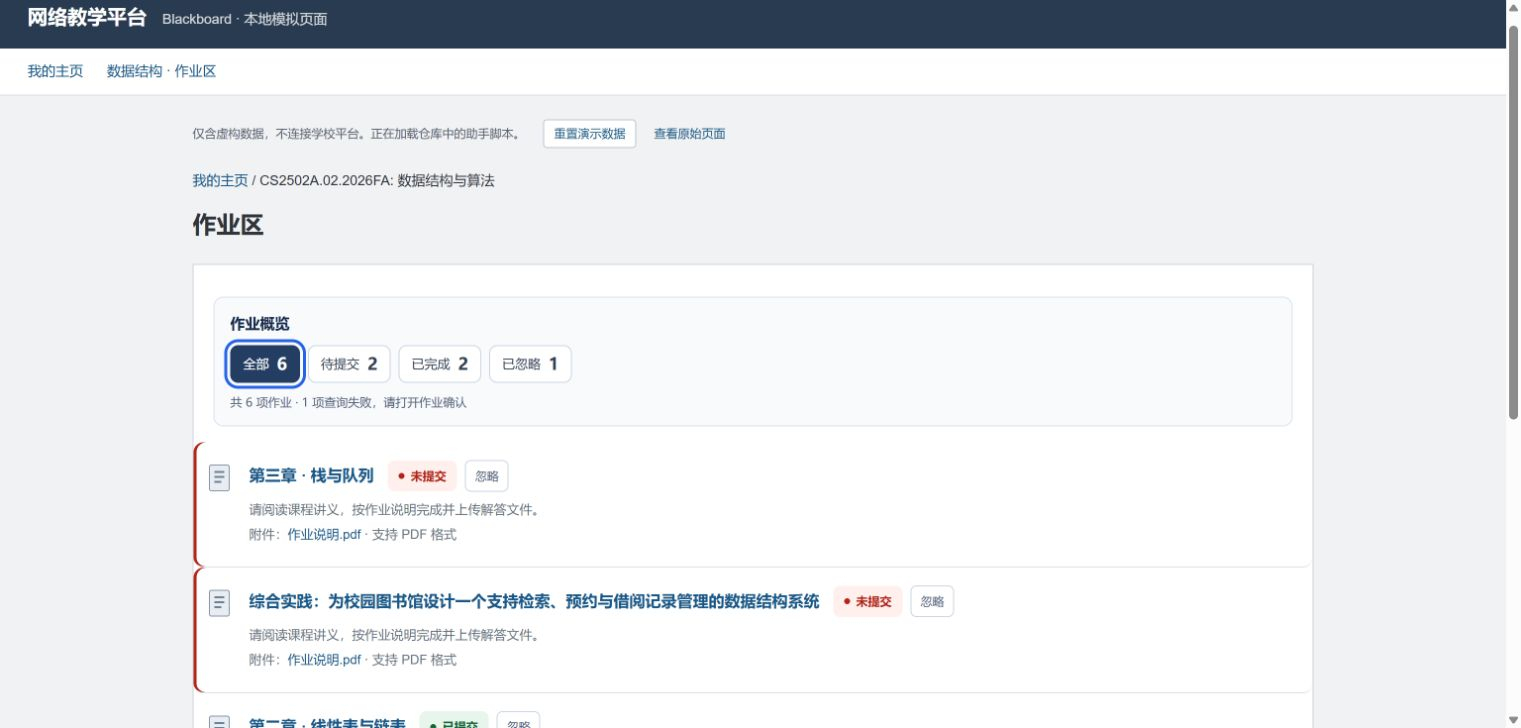
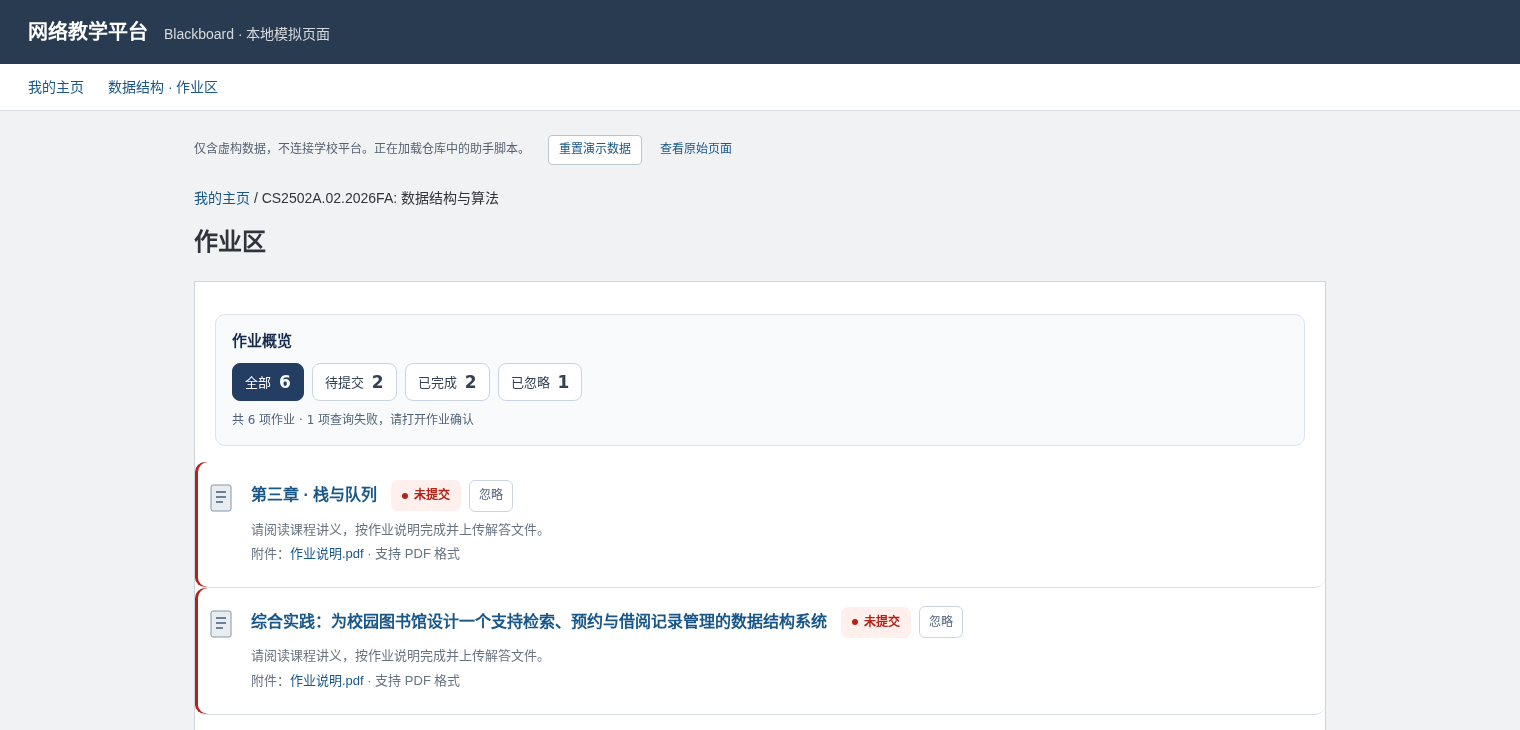
ui: shorten portal badges and polish overview details (v1.4.8)
- Portal badges show only short status; verification progress, pending
  confirmations and ignored counts move to a secondary note line
- Drop the misleading "刚核验" wording
- Pulse the dot on in-progress badges (respects prefers-reduced-motion)
- Only colour "已确认待交" red when greater than zero
- Give the portal refresh button its own class and spacing
- Update README, preview scenarios and screenshots

diff --git a/USTC-BB-Helper.user.js b/USTC-BB-Helper.user.js
@@ -3,7 +3,7 @@
 // @name:zh-CN   USTC BB 助手
 // @license      gpl-3.0
 // @namespace    ustc-bb-helper
-// @version      1.4.7
+// @version      1.4.8
 // @description  Enhancements for USTC Blackboard: course and homework overviews, filterable homework status badges with keyboard-accessible ignore controls, courses sorted by unsubmitted homework with direct links, personalized color theme on all pages, auto login and off-campus authentication. Based on PRO's USTC Helper (GPL-3.0), no external dependencies.
 // @description:zh-CN  为中科大 bb 网络教学平台增强：课程与作业概览、提交状态筛选、支持键盘操作的忽略按钮；主页按未提交作业数排序，点击课程直达作业区；主页个性化主题颜色全站生效；自动登录及校外认证。基于 PRO 的 USTC Helper (GPL-3.0) bb 模块修复而来，无任何外部依赖。
 // @match        https://www.bb.ustc.edu.cn/*
@@ -80,7 +80,7 @@
         .ustc-bb-stat { display: flex; align-items: baseline; flex-wrap: wrap; gap: 4px 8px; }
         .ustc-bb-stat dt { font-size: 12px; color: #52627a; }
         .ustc-bb-stat dd { margin: 0; color: #172b4d; font-size: 21px; font-weight: 700; line-height: 1.4; font-variant-numeric: tabular-nums; }
-        .ustc-bb-stat:first-child dd { color: #b42318; }
+        .ustc-bb-stat dd.ustc-bb-stat-alert { color: #b42318; }
         .ustc-bb-filters { display: flex; flex-wrap: wrap; gap: 8px; margin: 0; }
         .ustc-bb-filters button {
             appearance: none; display: inline-flex; align-items: center; gap: 8px;
@@ -113,21 +113,27 @@
             text-shadow: none;
         }
         .ustc-bb-hint::before { content: ""; flex: 0 0 6px; width: 6px; height: 6px; border-radius: 50%; background: currentColor; }
-        .ustc-bb-ignore {
+        /* 查询中的圆点轻微呼吸，区分「正在查」与「卡住了」；尊重系统减少动态效果设置。 */
+        @keyframes ustc-bb-pulse { 0%, 100% { opacity: 1; transform: scale(1); } 50% { opacity: .3; transform: scale(.6); } }
+        .ustc-bb-hint-busy::before { animation: ustc-bb-pulse 1.4s ease-in-out infinite; }
+        @media (prefers-reduced-motion: reduce) { .ustc-bb-hint-busy::before { animation: none; } }
+        .ustc-bb-ignore, .ustc-bb-refresh {
             appearance: none; min-height: 32px; padding: 4px 9px; margin: 0;
             border: 1px solid #cbd5e1; border-radius: 6px; background: #fff;
             color: #52627a; font-size: 12px; font-weight: 400; line-height: 1.6;
             cursor: pointer; box-shadow: none; text-shadow: none; white-space: nowrap;
         }
-        .ustc-bb-ignore:hover:not(:disabled) { color: #17365d; border-color: #7185a2; background: #eef2f7; }
+        .ustc-bb-ignore:hover:not(:disabled), .ustc-bb-refresh:hover:not(:disabled) { color: #17365d; border-color: #7185a2; background: #eef2f7; }
         .ustc-bb-ignore:disabled { cursor: wait; color: #66758a; background: #f1f4f8; }
+        .ustc-bb-refresh { margin-top: 12px; padding: 4px 12px; }
+        .ustc-bb-refresh:disabled { cursor: default; color: #8a97a8; background: #f1f4f8; }
         .ustc-bb-hw-actions { display: inline-flex; align-items: center; flex-wrap: wrap; gap: 8px; max-width: 100%; vertical-align: middle; }
         .ustc-bb-hint-0, .ustc-bb-hint-4 { color: #475569; background: #edf1f5; }
         .ustc-bb-hint-1 { color: #166534; background: #e8f5ec; }
         .ustc-bb-hint-2 { color: #b42318; background: #fff0ed; }
         .ustc-bb-hint-3 { color: #854d0e; background: #fff6d9; }
         .ustc-bb-hint-5 { color: #1d4ed8; background: #eaf1ff; }
-        .ustc-bb-ignore:focus-visible, .ustc-bb-filters button:focus-visible,
+        .ustc-bb-ignore:focus-visible, .ustc-bb-refresh:focus-visible, .ustc-bb-filters button:focus-visible,
         .ustc-bb-course a:focus-visible { outline: 3px solid #2563eb; outline-offset: 3px; }
         .ustc-bb-course-list { padding: 0 !important; list-style: none; }
         .ustc-bb-course-list > .ustc-bb-course {
@@ -143,6 +149,10 @@
         .ustc-bb-course-heading > a { display: block; color: #17365d; font-size: 14px; font-weight: 600; line-height: 1.6; }
         .ustc-bb-course-main > .ustc-bb-hint { flex: 0 0 auto; }
         .ustc-bb-course .ustc-bb-course-code { display: block; margin-top: 4px; color: #617089; font-size: 11px; font-weight: 400; line-height: 1.5; overflow-wrap: anywhere; }
+        /* 徽章只放短状态；「已忽略 N 项」「N 项待确认」等补充说明放在这一行，避免徽章在窄列里换成多行。 */
+        .ustc-bb-course .ustc-bb-course-note { display: block; margin-top: 2px; color: #617089; font-size: 11px; font-weight: 400; line-height: 1.5; overflow-wrap: anywhere; }
+        .ustc-bb-course .ustc-bb-course-note:empty { display: none; }
+        .ustc-bb-course-main > .ustc-bb-hint { white-space: nowrap; }
         .ustc-bb-assignment { border-radius: 10px; }
         .ustc-bb-assignment h3 { display: flex; align-items: center; flex-wrap: wrap; gap: 8px 14px; line-height: 1.8; overflow-wrap: anywhere; }
         .ustc-bb-assignment h3 > a { min-width: 0; }
@@ -579,7 +589,7 @@
                 if ((hidden && hw.contains(document.activeElement)) || ((status === 0 || entry.refreshing) && toggle === document.activeElement)) {
                     filterButtons[activeFilter].button.focus();
                 }
-                hint.className = `ustc-bb-hint ustc-bb-hint-${status}`;
+                hint.className = `ustc-bb-hint ustc-bb-hint-${status}${status === 0 || entry.refreshing ? ' ustc-bb-hint-busy' : ''}`;
                 hint.textContent = `${hintText[status]}${extra ? ' ' + extra : ''}${entry.refreshing && status !== 0 ? ' · 核验中' : ''}`;
                 toggle.disabled = status === 0 || entry.refreshing;
                 toggle.textContent = ignored ? '恢复' : '忽略';
@@ -688,24 +698,29 @@
             heading.className = 'ustc-bb-course-heading';
             heading.appendChild(a);
             if (code) heading.appendChild(code);
+            const note = heading.appendChild(document.createElement('span'));
+            note.className = 'ustc-bb-course-note';
             const badge = main.appendChild(document.createElement('span'));
-            badge.className = 'ustc-bb-hint ustc-bb-hint-0';
-            badge.textContent = '作业查询中…';
+            badge.className = 'ustc-bb-hint ustc-bb-hint-0 ustc-bb-hint-busy';
+            badge.textContent = '查询中';
             li.classList.add('ustc-bb-course');
-            return { li, a, courseId, badge, unsub: 0, hasHw: true, ready: false, pending: 0, failed: 0 };
+            return { li, a, courseId, badge, note, unsub: 0, hasHw: true, ready: false, pending: 0, failed: 0 };
         }).filter(Boolean);
         if (!items.length) return;
         ul.classList.add('ustc-bb-course-list');
         const overview = createOverview(ul, '课程概览', ['已确认待交', '待办课程', '当前课程']);
         const retry = overview.panel.appendChild(document.createElement('button'));
         retry.type = 'button';
-        retry.className = 'ustc-bb-ignore';
+        retry.className = 'ustc-bb-refresh';
         retry.textContent = '刷新作业状态';
 
         function updateOverview() {
             const pending = items.filter(item => !item.ready).length;
             const failed = items.filter(item => item.ready && item.failed).length;
-            overview.values[0].textContent = items.reduce((sum, item) => sum + Math.max(0, item.unsub), 0);
+            const unsubTotal = items.reduce((sum, item) => sum + Math.max(0, item.unsub), 0);
+            overview.values[0].textContent = unsubTotal;
+            // 只有确实有待交作业时才标红，0 不应该看起来像警告。
+            overview.values[0].classList.toggle('ustc-bb-stat-alert', unsubTotal > 0);
             overview.values[1].textContent = items.filter(item => item.unsub > 0).length;
             overview.values[2].textContent = items.length;
             overview.note.textContent = pending
@@ -730,28 +745,41 @@
             if (focused && document.activeElement !== focused) focused.focus({ preventScroll: true });
         }
 
+        // 徽章只给一眼可扫的短状态，补充说明（核验进度、待确认、已忽略）放到标题下的灰色小字。
         function updateBadge(item) {
+            let kind = 0, busy = false, label = '';
+            const notes = [];
             if (!item.hasHw) {
-                item.badge.className = 'ustc-bb-hint ustc-bb-hint-0';
-                item.badge.textContent = '无作业区';
+                label = '无作业区';
             } else if (item.unsub > 0) {
-                item.badge.className = 'ustc-bb-hint ustc-bb-hint-2';
-                item.badge.textContent = !item.ready || item.failed
-                    ? `至少 ${item.unsub} 项待交${!item.ready ? ' · 核验中…' : ` · ${item.failed} 项待确认`}`
-                    : `未提交 ${item.unsub}`;
+                kind = 2;
+                label = `未提交 ${item.unsub}`;
+                if (!item.ready) {
+                    busy = true;
+                    notes.push(item.pending ? `核验中，剩余 ${item.pending} 项，数量可能增加` : '核验中，数量可能增加');
+                } else if (item.failed) {
+                    notes.push(`另有 ${item.failed} 项查询失败待确认`);
+                }
             } else if (!item.ready) {
-                item.badge.className = 'ustc-bb-hint ustc-bb-hint-0';
-                item.badge.textContent = typeof item.previousCount === 'number'
-                    ? `上次待交 ${item.previousCount} · 正在重新核验`
-                    : item.pending ? `作业查询中 · 剩余 ${item.pending}` : '作业查询中…';
+                busy = true;
+                label = '查询中';
+                if (typeof item.previousCount === 'number') {
+                    notes.push(item.previousCount > 0 ? `上次待交 ${item.previousCount}，正在重新核验` : '上次已交齐，正在重新核验');
+                } else if (item.pending) {
+                    notes.push(`正在核验，剩余 ${item.pending} 项`);
+                }
             } else if (!item.failed) {
-                item.badge.className = 'ustc-bb-hint ustc-bb-hint-1';
-                item.badge.textContent = item.total === 0 ? '作业区暂无作业'
-                    : item.ignored ? `暂无待交 · 已忽略 ${item.ignored} 项` : '暂无待交 · 刚核验';
+                kind = 1;
+                label = item.total === 0 ? '暂无作业' : '已交齐';
             } else {
-                item.badge.className = 'ustc-bb-hint ustc-bb-hint-3';
-                item.badge.textContent = '查询未完成，可重试';
+                kind = 3;
+                label = '查询未完成';
+                notes.push('部分请求失败，可点击上方按钮重试');
             }
+            if (item.hasHw && item.ready && item.ignored) notes.push(`已忽略 ${item.ignored} 项`);
+            item.badge.className = `ustc-bb-hint ustc-bb-hint-${kind}${busy ? ' ustc-bb-hint-busy' : ''}`;
+            item.badge.textContent = label;
+            item.note.textContent = notes.join(' · ');
             item.li.dataset.status = item.unsub > 0 ? '2' : '0';
             updateOverview();
             sortCourses();

diff --git a/dev/README.md b/dev/README.md
@@ -19,6 +19,7 @@ node dev/preview.mjs
 - 门户包含 7 门课程。清空缓存首次打开时，首页应自动查询并逐步显示数量，无需先进入作业区。概率论有 1 项未提交，线性代数和人工智能已交齐；数据结构有 2 项已查到待提交、1 项查询失败待确认，选做作业预先忽略。学术交流无作业区，物理实验模拟入口查询错误，空作业区显示「作业已交齐」。检查已查到的待交数量、渐进排序和直达作业区链接；有失败或未确认项目时不能误显示已交齐。
 - 正常批量查询应从「我的成绩」页面获取待提交、已提交和已评分状态，只为数据结构中在成绩表缺失的错误项单独请求作业页面。线性代数第一项故意使用 `upcoming_item_row`，但带已提交活动和 `needs_grading.png`，仍须识别为已提交。
 - 5 门课程带 `CS2502A.02.2026FA:` 一类的示例编号前缀，学术交流课程不带编号，人工智能保留长标题。检查课程名为主行、编号为灰色次行，无编号课程没有空行，长标题和 260px 窄列不横向溢出；主页概览在窄列中保持紧凑。
+- 课程徽章只有短状态（未提交 N / 已交齐 / 暂无作业 / 无作业区 / 查询中 / 查询未完成），不应换行；「另有 N 项查询失败待确认」「已忽略 N 项」「上次待交 N，正在重新核验」等补充说明出现在编号下方的灰色小字，没有补充说明时该行不占高度。查询中的徽章圆点有呼吸动画，概览「已确认待交」为 0 时不标红，「刷新作业状态」按钮与说明文字之间有间距。
 - 数据结构作业区包含未提交、已提交、已评分（96 / 100）、查询错误和预先忽略的选做作业，以及较长中文标题。
 - 作业概览用一排带数字的「全部／待提交／已完成／已忽略」按钮筛选，检查数字随忽略与恢复操作同步更新，窄窗口时允许换行。
 - 预览模拟原站作业列表的负外边距（桌面顶部 -20px，窄屏 -12px）。有概览时仅上外边距归零；切换各个筛选后，概览与第一条可见内容之间应保持 16px 间距，不相互覆盖。
@@ -26,7 +27,7 @@ node dev/preview.mjs
 - 点击独立的「忽略／恢复」按钮切换忽略状态，再回主页，检查未提交数同步；刷新作业页，检查忽略状态持久化。状态标签与标题链接各自显示，点击状态文字不应切换忽略或打开作业。
 - 用 Tab、Enter 和空格操作筛选与「忽略／恢复」按钮；在窄窗口、260px 门户列和浏览器缩放后检查标题、编号、状态标签和概览是否溢出。
 - 首次打开会初始化一项忽略记录；之后保留本机演示状态。「重置演示数据」只清除此预览源的 `ustc-bb-*` 数据，恢复默认样例并清空门户缓存，不影响学校域名上的数据。
-- 重新进入门户时先展示上次统计并提示更新中，随后在后台核验当前状态；不能把当天的缓存当成永久有效。可点击「重置演示数据」重新观察首次加载过程。
+- 重新进入门户时徽章显示「查询中」，次行提示「上次待交 N，正在重新核验」或「上次已交齐，正在重新核验」，随后在后台核验当前状态；不能把当天的缓存当成永久有效。可点击「重置演示数据」重新观察首次加载过程。
 - 设置 `BB_PREVIEW_LEGACY_ZERO_CACHE=1` 并重置演示数据，会种入旧版无版本的当日错误零值：概率论缓存为已交齐，但实际有 1 项待交。新版本应忽略这份旧统计并重新查询，最终显示 1 项待交。
 - 首页查询获得的单项状态快照与作业区共享：先在首页完成概率论查询，5 分钟内进入该课作业区，检查已有状态可先展示，并明确提示后台核验中；随后通过批量接口更新，不重复打开已由批量结果确认的复查页。忽略／恢复或打开单项作业后，关联快照与计数应失效或同步更新。部分失败记录不能作为完整“已交齐”统计复用。
 

diff --git a/README.md b/README.md
@@ -7,8 +7,8 @@
 - **作业区状态标注**：在作业列表自动标注每个作业的状态徽章 —— 已提交（绿）/ 未提交（红）/ 已评分（蓝，显示分数）/ 查询错误（黄）
 - **作业概览与筛选**：一排按钮同时显示各状态数量并提供筛选，减少顶部占用；查询进度、失败提示和筛选空状态单独展示
 - **忽略与恢复**：状态徽章旁有独立的「忽略 / 恢复」按钮，忽略后浅灰显示并收起详情；支持 Tab、Enter 和空格操作，忽略记录存于 localStorage，主页未提交数目会同步更新
-- **课程概览**：以卡片展示当前课程，紧凑汇总已查到的待交作业和待办课程数量；突出课程名，将标准课程编号放在灰色次行，长标题和窄栏布局自动换行
-- **主页自动统计与排序**：首次打开门户主页就自动查询各课未提交作业数，无需先进入作业区；优先从「我的成绩」批量获取状态，只为无法确认的作业查询单项页面。红色「未提交 N」徽章随查询结果更新并降序置顶，「作业已交齐」居中
+- **课程概览**：以卡片展示当前课程，紧凑汇总已查到的待交作业和待办课程数量（待交为 0 时不标红）；突出课程名，将标准课程编号放在灰色次行，长标题和窄栏布局自动换行
+- **主页自动统计与排序**：首次打开门户主页就自动查询各课未提交作业数，无需先进入作业区；优先从「我的成绩」批量获取状态，只为无法确认的作业查询单项页面。徽章只显示短状态（红色「未提交 N」/ 绿色「已交齐」/「查询中」带呼吸圆点 / 黄色「查询未完成」），核验进度、待确认项和已忽略数量放在课程编号下的灰色小字；未提交课程降序置顶
 - **直达作业区**：主页点击课程名称直接进入该课程作业区，不再跳转课程主页（课程主页仍可从课程内左侧菜单进入）
 - **主题跟随**：主页「个性化页面」选的主题颜色应用到所有页面（BB 默认只在主页生效）；换主题后打开一次主页即自动更新
 - **自动登录**：登录页自动点击「统一身份认证登录」
@@ -28,8 +28,9 @@
 - 全局最多 6 个查询，单项慢查询最多占 3 个；超时覆盖响应正文读取，12 秒后取消该请求，临时故障重试一次，超时和 4xx 不反复等待
 - 所有数据仅存于浏览器本地（localStorage），不与任何第三方通信
 - 部分查询失败时仍显示已查到的待交数并标注待确认项，不误报「作业已交齐」、不缓存成当天的完整统计；首页可点击「重试未完成查询」重新确认
-- 未完成时显示「至少 N 项待交」或查询提示，完整核验后才显示「暂无待交 · 刚核验」；空作业区和已忽略项目会单独说明。查询结束还会检查是否收到所有结果，漏回调不能变成成功的零计数
-- 兼容 Blackboard 自带的 Prototype 1.7：不使用其覆盖的 `Array.from` 转换 `Set` 或调度任务。升级到 1.4.7 会丢弃旧版未经完整验证的统计，只保留作业区入口
+- 未完成时徽章显示已查到的「未提交 N」并在次行提示「核验中，数量可能增加」，完整核验后才显示「已交齐」，核验时间见概览说明；空作业区和已忽略项目会单独说明。查询结束还会检查是否收到所有结果，漏回调不能变成成功的零计数
+- 兼容 Blackboard 自带的 Prototype 1.7：不使用其覆盖的 `Array.from` 转换 `Set` 或调度任务。升级到 1.4.7 及以上会丢弃旧版未经完整验证的统计，只保留作业区入口
+- 查询中的圆点呼吸动画遵循系统「减少动态效果」设置
 
 ## 本地开发与预览
 
